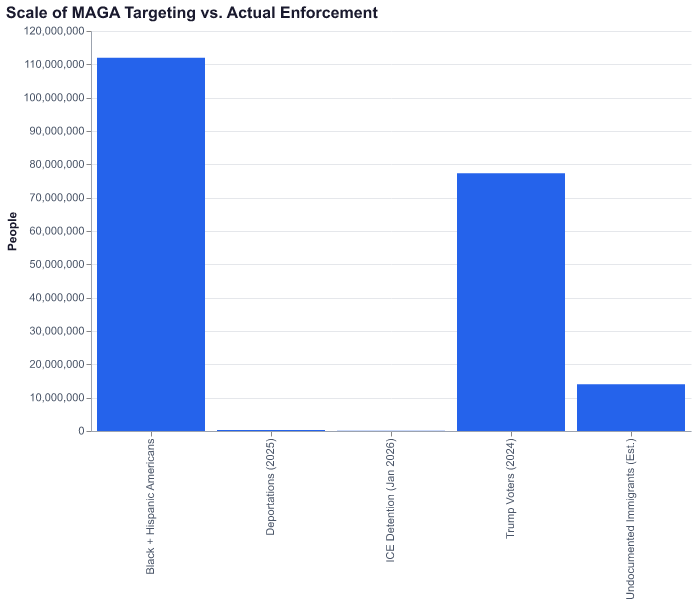
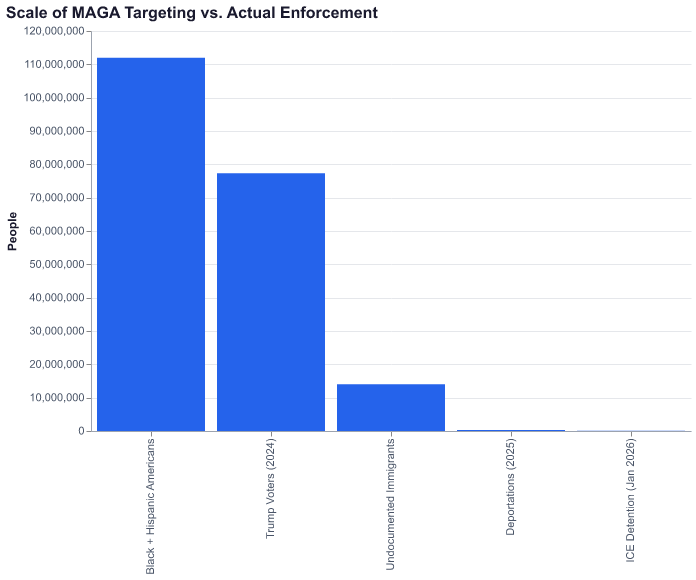
fix tolerance horizontal bar charts, sort orders, labels
Fixed HORIZONTAL_BAR axis convention (x=category, y=value).
Added sort orders for bar charts (tallest left).
Shortened x-axis labels for readability.

diff --git a/charts/generate_dual.py b/charts/generate_dual.py
@@ -2639,17 +2639,18 @@ def get_tolerance_chart_specs() -> list[ChartSpec]:
             x_label="",
             y_label="People",
             y_format="thousands",
+            options={"x_sort_order": ["NSDAP Voters\n(1933)", "Convicted\n(All Courts)"]},
         ),
         ChartSpec(
             chart_id="tolerance-genocide-comparison",
             chart_type=ChartType.HORIZONTAL_BAR,
             title="Deadliest Genocides and Democides in History",
             data_source=load_genocide_comparison,
-            x="deaths",
-            y="event",
-            x_label="Estimated Deaths (Millions)",
-            y_label="",
-            x_format="thousands",
+            x="event",
+            y="deaths",
+            x_label="",
+            y_label="Estimated Deaths (Millions)",
+            y_format="thousands",
             color="type",
             options={"color_scheme": {"imagined": "#dc2626", "historical": "#6b7280"}},
         ),
@@ -2663,16 +2664,17 @@ def get_tolerance_chart_specs() -> list[ChartSpec]:
             x_label="",
             y_label="People",
             y_format="thousands",
+            options={"x_sort_order": ["Black + Hispanic\nAmericans", "Trump Voters\n(2024)", "Undocumented\nImmigrants", "Deportations\n(2025)", "ICE Detention\n(Jan 2026)"]},
         ),
         ChartSpec(
             chart_id="tolerance-freedom-house",
             chart_type=ChartType.HORIZONTAL_BAR,
             title="Freedom House Scores: Where the US Stands (2025)",
             data_source=load_freedom_house_worst,
-            x="score",
-            y="country",
-            x_label="Freedom Score (0-100)",
-            y_label="",
+            x="country",
+            y="score",
+            x_label="",
+            y_label="Freedom Score (0-100)",
             color="category",
             options={"color_scheme": {"current_us": "#2563eb", "backsliding": "#f59e0b", "authoritarian": "#dc2626"}},
         ),
@@ -2693,10 +2695,10 @@ def get_tolerance_chart_specs() -> list[ChartSpec]:
             chart_type=ChartType.HORIZONTAL_BAR,
             title="Conviction Rates in Post-Authoritarian Transitions",
             data_source=load_accountability_rates,
-            x="rate",
-            y="country",
-            x_label="Conviction Rate (%)",
-            y_label="",
+            x="country",
+            y="rate",
+            x_label="",
+            y_label="Conviction Rate (%)",
         ),
         ChartSpec(
             chart_id="tolerance-recovery",
@@ -2714,10 +2716,10 @@ def get_tolerance_chart_specs() -> list[ChartSpec]:
             chart_type=ChartType.HORIZONTAL_BAR,
             title="Racial Intolerance: Would Not Want a Neighbor of a Different Race",
             data_source=load_tolerance_world_values,
-            x="intolerance_pct",
-            y="country",
-            x_label="% Who Reject Different-Race Neighbor",
-            y_label="",
+            x="country",
+            y="intolerance_pct",
+            x_label="",
+            y_label="% Who Reject Different-Race Neighbor",
         ),
         ChartSpec(
             chart_id="tolerance-perpetrator-gap",

diff --git a/charts/tolerance/data.py b/charts/tolerance/data.py
@@ -31,8 +31,8 @@ def load_nazi_voters_vs_convicted():
     - Times of Israel / Mary Fulbrook: 6,656 in West Germany, 12,890 in East Germany
     """
     return pd.DataFrame([
-        {"category": "NSDAP Voters (1933)", "count": 17_277_180},
-        {"category": "Convicted (All Courts)", "count": 100_000},
+        {"category": "NSDAP Voters\n(1933)", "count": 17_277_180},
+        {"category": "Convicted\n(All Courts)", "count": 100_000},
     ])
 
 
@@ -69,7 +69,7 @@ def load_detention_comparison():
     return pd.DataFrame([
         {"category": "Black + Hispanic\nAmericans", "count": 112_000_000},
         {"category": "Trump Voters\n(2024)", "count": 77_303_573},
-        {"category": "Undocumented\nImmigrants (Est.)", "count": 14_000_000},
+        {"category": "Undocumented\nImmigrants", "count": 14_000_000},
         {"category": "Deportations\n(2025)", "count": 335_000},
         {"category": "ICE Detention\n(Jan 2026)", "count": 73_000},
     ])
